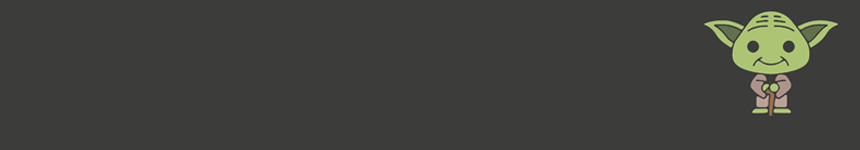
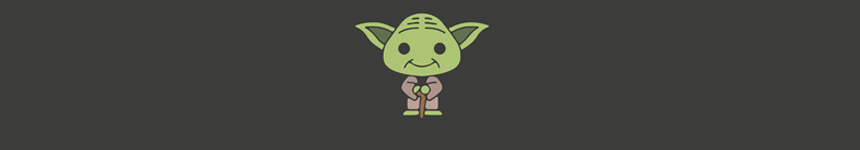
Ajuste Footer

Changed region(s): [[0.8163, 0.0533, 0.9977, 0.7733], [0.393, 0.08, 0.5744, 0.7733]]

diff --git a/Home.html b/Home.html
@@ -101,7 +101,7 @@
                             <h1>Portfolio</h1>
                             <div class="row">
                                 <div class="col-md-4">
-                                    <img class="img-fluid rounded mb-3 mb-md-0" src="_Imagens/_Doss.png" alt="">
+                                    <img class="img-fluid rounded mb-3 mb-md-0 img-responsive" src="_Imagens/_Doss.png" alt="">
                                 </div>
                                 <div class="col-md-8">
                                     <h3>Projeto Tributo Free Code Camp</h3>
@@ -141,7 +141,8 @@
         </div>
     </div>
     </div>
-    <footer>
+    <footer class="py-5 bg-dark">
+        <p class="text-center text-white">Copyright &copy; Marco Monteiro Jr.</p>
     </footer>
 </body>
 

diff --git a/_Css/Home.css b/_Css/Home.css
@@ -151,12 +151,8 @@ h2 {
 
 footer {
     background-image: url("../_Imagens/_BackgroundFooter.png");
-    bottom: 0;
-    background-size: cover;
     background-repeat: no-repeat;
     width: 103%;
-    text-align: center;
-    padding-top: 15%;
 }
 
 @media only screen and (max-width: 1026px) {
